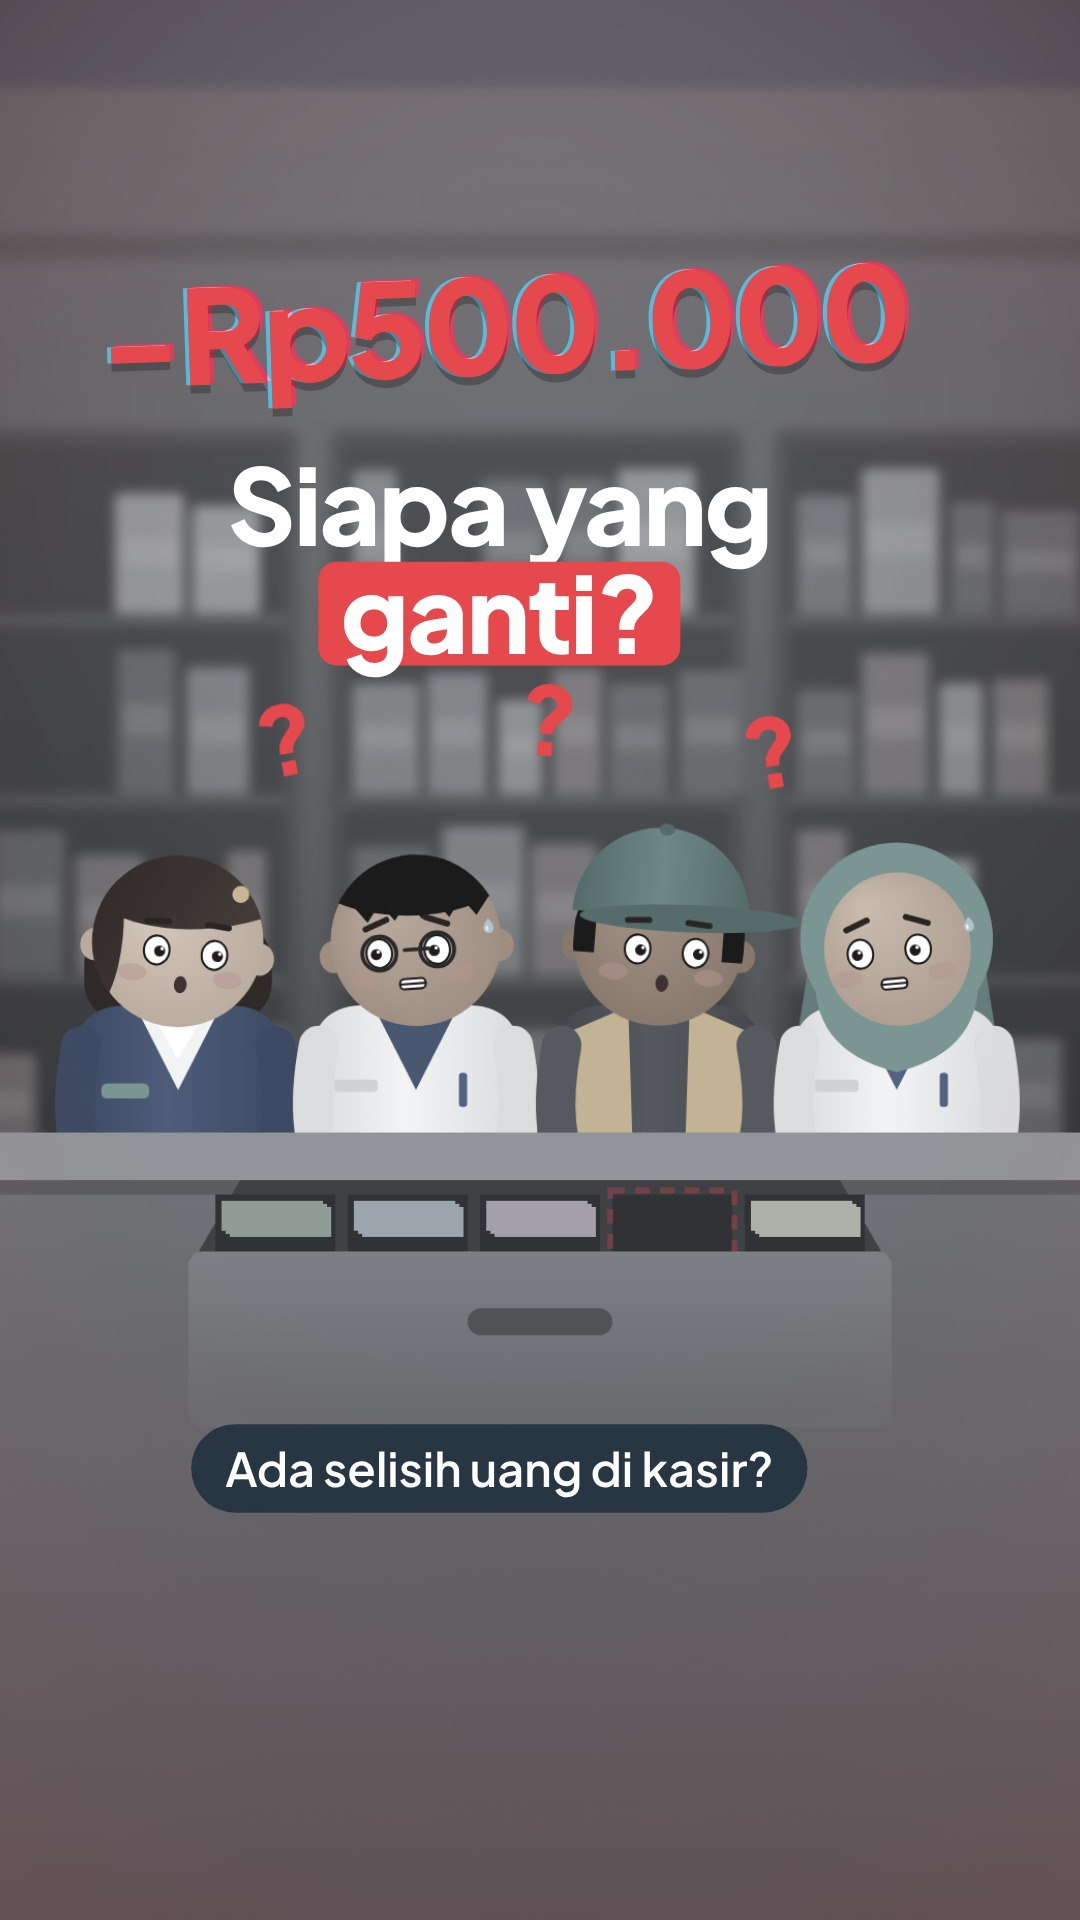
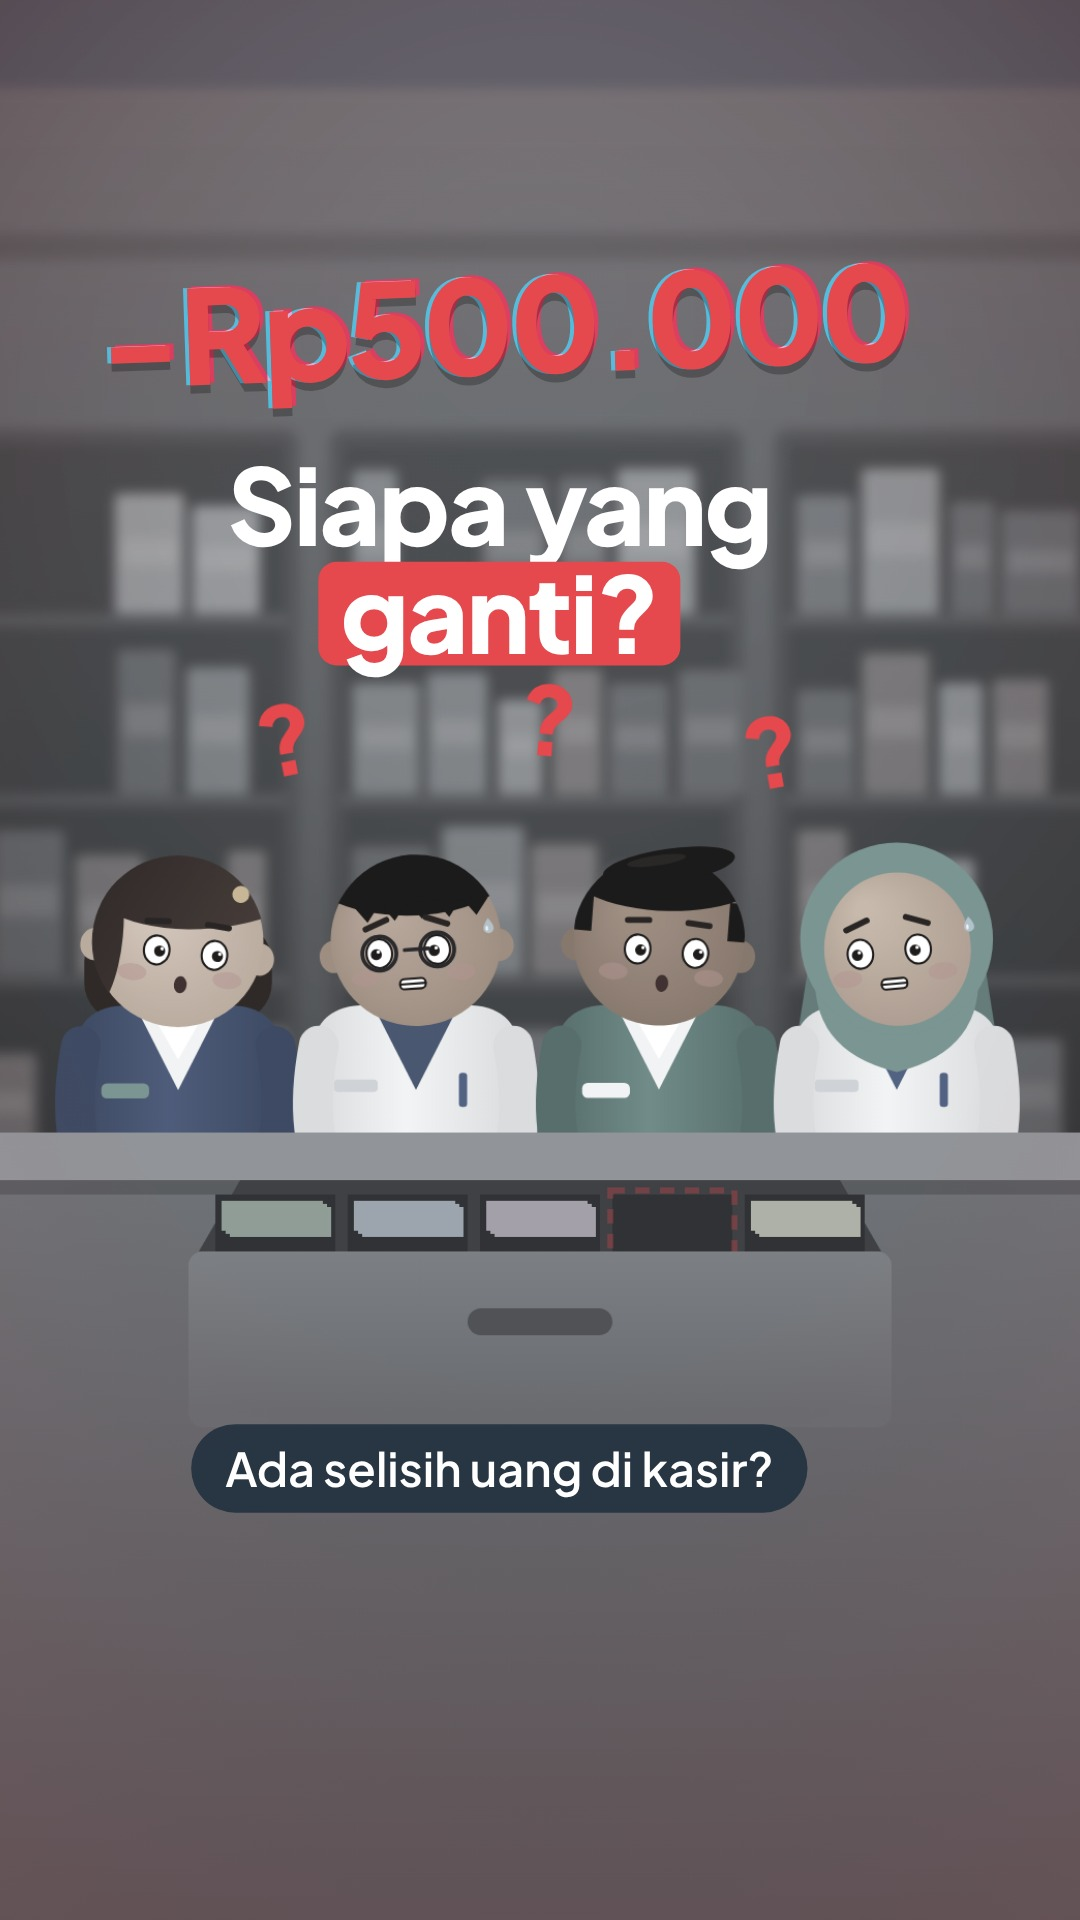
Budi jadi petugas apotek (seragam teal, tanpa topi)
Claude-Session: https://claude.ai/code/session_01LjuAxD6bRwHt1wg8UtLXQz

Changed region(s): [[0.5194, 0.4062, 0.7333, 0.5938]]

diff --git a/selisih-kasir-500rb/index.html b/selisih-kasir-500rb/index.html
@@ -86,7 +86,7 @@ html,body{margin:0;height:100%;background:#000;overflow:hidden}
     <div class="sheet">Karakter<small>dipakai di semua adegan</small></div>
     <div class="lb" style="left:90px;top:1010px">Sari<small>Kasir · Apotek A</small></div>
     <div class="lb" style="left:390px;top:1010px">Dimas<small>Apoteker · Apotek A</small></div>
-    <div class="lb" style="left:690px;top:1010px">Budi<small>Gudang · Apotek A</small></div>
+    <div class="lb" style="left:690px;top:1010px">Budi<small>Petugas · Apotek A</small></div>
     <div class="lb" style="left:240px;top:1700px">Rina<small>Kasir · Apotek B</small></div>
     <div class="lb" style="left:540px;top:1700px">Pak Hendra<small>Owner · Apotek B</small></div>
   </div>
@@ -204,7 +204,7 @@ function gradV(y0, y1, a, b) { const g = c.createLinearGradient(0, y0, 0, y1); g
 const ORANG = {
   sari:  {kulit:'#EDC29C', kulit2:'#D9A57E', rambut:'#3A2722', rambut2:'#5A3A30', jenis:'bob',   baju:'#2F5FC4', baju2:'#244C9E', dalam:'#F1F3F6', aks:'#E8B54A', tag:'#4BA299'},
   dimas: {kulit:'#D9A27A', kulit2:'#C08660', rambut:'#1F1A1A', rambut2:'#3A3030', jenis:'cepak', baju:'#F2F4F7', baju2:'#D6DCE4', dalam:'#2C59AE', kacamata:1},
-  budi:  {kulit:'#C08A62', kulit2:'#A57250', rambut:'#1F1A1A', rambut2:'#2E2626', jenis:'topi',  baju:'#4E5B6E', baju2:'#3E495A', rompi:'#E3B04B', topi:'#3F9590', topi2:'#2F7772'},
+  budi:  {kulit:'#C08A62', kulit2:'#A57250', rambut:'#1F1A1A', rambut2:'#2E2626', jenis:'jambul', baju:'#3F9A90', baju2:'#2F7A72', dalam:'#F1F3F6', tag:'#F1F3F6'},
   rina:  {kulit:'#E6B48C', kulit2:'#CC9670', jenis:'hijab', hijab:'#4BA299', hijab2:'#3B8880', baju:'#F2F4F7', baju2:'#D6DCE4', dalam:'#3064D1'},
   hendra:{kulit:'#CF9A72', kulit2:'#B57F58', rambut:'#2B2523', rambut2:'#6B625E', jenis:'rapi', baju:'#2C59AE', baju2:'#22478C', dalam:'#F1F3F6', kumis:1},
 };
@@ -289,7 +289,7 @@ function orang(o) {
   c.fillStyle = g; c.beginPath(); c.moveTo(-1.1 * bw, 380 * s); c.lineTo(-1.02 * bw, 70 * s); c.quadraticCurveTo(-bw, 0, -.55 * bw, -4 * s); c.lineTo(.55 * bw, -4 * s); c.quadraticCurveTo(bw, 0, 1.02 * bw, 70 * s); c.lineTo(1.1 * bw, 380 * s); c.closePath(); c.fill();
   // detail baju
   if (C.dalam) { c.fillStyle = C.dalam; c.beginPath(); c.moveTo(-.42 * bw, -4 * s); c.lineTo(0, 120 * s); c.lineTo(.42 * bw, -4 * s); c.fill(); }
-  if (C.jenis === 'bob' || C.jenis === 'rapi') { c.fillStyle = C.dalam === '#F1F3F6' ? '#fff' : C.dalam; c.beginPath(); c.moveTo(-.3 * bw, -4 * s); c.lineTo(0, 75 * s); c.lineTo(.3 * bw, -4 * s); c.fill(); }
+  if (C.jenis === 'bob' || C.jenis === 'rapi' || C.jenis === 'jambul') { c.fillStyle = C.dalam === '#F1F3F6' ? '#fff' : C.dalam; c.beginPath(); c.moveTo(-.3 * bw, -4 * s); c.lineTo(0, 75 * s); c.lineTo(.3 * bw, -4 * s); c.fill(); }
   if (C.tag) { c.fillStyle = C.tag; rr(-.75 * bw, 110 * s, 70 * s, 22 * s, 8 * s); c.fill(); }
   if (C.jenis === 'cepak' || C.jenis === 'hijab') { c.fillStyle = '#3064D1'; rr(.42 * bw, 95 * s, 12 * s, 50 * s, 5 * s); c.fill(); c.fillStyle = '#C9D3E0'; rr(-.8 * bw, 105 * s, 64 * s, 18 * s, 6 * s); c.fill(); }
   if (C.rompi) { c.fillStyle = C.rompi; [-1, 1].forEach(sg => { c.beginPath(); c.moveTo(sg * .3 * bw, -2 * s); c.lineTo(sg * .95 * bw, 40 * s); c.lineTo(sg * 1.08 * bw, 380 * s); c.lineTo(sg * .22 * bw, 380 * s); c.closePath(); c.fill(); });
@@ -317,7 +317,9 @@ function orang(o) {
     if (C.jenis === 'rapi') { c.fillStyle = C.rambut2; c.beginPath(); c.ellipse(-.9 * R, -.25 * R, .18 * R, .35 * R, 0, 0, 7); c.ellipse(.9 * R, -.25 * R, .18 * R, .35 * R, 0, 0, 7); c.fill(); }
     else { c.beginPath(); for (let i = 0; i < 5; i++) { c.moveTo(-.7 * R + i * .32 * R, -.45 * R); c.lineTo(-.55 * R + i * .32 * R, -.25 * R); c.lineTo(-.4 * R + i * .32 * R, -.45 * R); } c.fill(); } }
   if (C.jenis === 'topi') { c.fillStyle = C.rambut; c.fillRect(-R, -.3 * R, .25 * R, .5 * R); c.fillRect(.75 * R, -.3 * R, .25 * R, .5 * R); }
+  if (C.jenis === 'jambul') { c.fillStyle = C.rambut; c.beginPath(); c.ellipse(.05 * R, -.95 * R, 1.3 * R, .6 * R, -.06, 0, 7); c.fill(); c.fillRect(-R, -.5 * R, .2 * R, .45 * R); c.fillRect(.8 * R, -.5 * R, .2 * R, .45 * R); }
   c.restore();
+  if (C.jenis === 'jambul') { c.fillStyle = C.rambut; c.beginPath(); c.ellipse(.05 * R, -.88 * R, .78 * R, .2 * R, -.22, 0, 7); c.fill(); c.fillStyle = C.rambut2; c.beginPath(); c.ellipse(-.1 * R, -.93 * R, .35 * R, .06 * R, -.22, 0, 7); c.fill(); }
   if (C.jenis === 'topi') { const tg = c.createLinearGradient(-R, 0, R, 0); tg.addColorStop(0, C.topi2); tg.addColorStop(.5, C.topi); tg.addColorStop(1, C.topi2);
     c.fillStyle = tg; c.beginPath(); c.arc(0, -.28 * R, 1.04 * R, Math.PI, 2 * Math.PI); c.fill();
     c.fillStyle = C.topi2; c.beginPath(); c.ellipse(.35 * R, -.28 * R, 1.3 * R, .16 * R, -.04, 0, 7); c.fill(); ell(0, -1.3 * R, .09 * R, .07 * R, C.topi2); }

diff --git a/selisih-kasir-500rb/scene.html b/selisih-kasir-500rb/scene.html
@@ -63,7 +63,7 @@
     <div class="sheet">Karakter<small>dipakai di semua adegan</small></div>
     <div class="lb" style="left:90px;top:1010px">Sari<small>Kasir · Apotek A</small></div>
     <div class="lb" style="left:390px;top:1010px">Dimas<small>Apoteker · Apotek A</small></div>
-    <div class="lb" style="left:690px;top:1010px">Budi<small>Gudang · Apotek A</small></div>
+    <div class="lb" style="left:690px;top:1010px">Budi<small>Petugas · Apotek A</small></div>
     <div class="lb" style="left:240px;top:1700px">Rina<small>Kasir · Apotek B</small></div>
     <div class="lb" style="left:540px;top:1700px">Pak Hendra<small>Owner · Apotek B</small></div>
   </div>
@@ -87,7 +87,7 @@ function gradV(y0, y1, a, b) { const g = c.createLinearGradient(0, y0, 0, y1); g
 const ORANG = {
   sari:  {kulit:'#EDC29C', kulit2:'#D9A57E', rambut:'#3A2722', rambut2:'#5A3A30', jenis:'bob',   baju:'#2F5FC4', baju2:'#244C9E', dalam:'#F1F3F6', aks:'#E8B54A', tag:'#4BA299'},
   dimas: {kulit:'#D9A27A', kulit2:'#C08660', rambut:'#1F1A1A', rambut2:'#3A3030', jenis:'cepak', baju:'#F2F4F7', baju2:'#D6DCE4', dalam:'#2C59AE', kacamata:1},
-  budi:  {kulit:'#C08A62', kulit2:'#A57250', rambut:'#1F1A1A', rambut2:'#2E2626', jenis:'topi',  baju:'#4E5B6E', baju2:'#3E495A', rompi:'#E3B04B', topi:'#3F9590', topi2:'#2F7772'},
+  budi:  {kulit:'#C08A62', kulit2:'#A57250', rambut:'#1F1A1A', rambut2:'#2E2626', jenis:'jambul', baju:'#3F9A90', baju2:'#2F7A72', dalam:'#F1F3F6', tag:'#F1F3F6'},
   rina:  {kulit:'#E6B48C', kulit2:'#CC9670', jenis:'hijab', hijab:'#4BA299', hijab2:'#3B8880', baju:'#F2F4F7', baju2:'#D6DCE4', dalam:'#3064D1'},
   hendra:{kulit:'#CF9A72', kulit2:'#B57F58', rambut:'#2B2523', rambut2:'#6B625E', jenis:'rapi', baju:'#2C59AE', baju2:'#22478C', dalam:'#F1F3F6', kumis:1},
 };
@@ -172,7 +172,7 @@ function orang(o) {
   c.fillStyle = g; c.beginPath(); c.moveTo(-1.1 * bw, 380 * s); c.lineTo(-1.02 * bw, 70 * s); c.quadraticCurveTo(-bw, 0, -.55 * bw, -4 * s); c.lineTo(.55 * bw, -4 * s); c.quadraticCurveTo(bw, 0, 1.02 * bw, 70 * s); c.lineTo(1.1 * bw, 380 * s); c.closePath(); c.fill();
   // detail baju
   if (C.dalam) { c.fillStyle = C.dalam; c.beginPath(); c.moveTo(-.42 * bw, -4 * s); c.lineTo(0, 120 * s); c.lineTo(.42 * bw, -4 * s); c.fill(); }
-  if (C.jenis === 'bob' || C.jenis === 'rapi') { c.fillStyle = C.dalam === '#F1F3F6' ? '#fff' : C.dalam; c.beginPath(); c.moveTo(-.3 * bw, -4 * s); c.lineTo(0, 75 * s); c.lineTo(.3 * bw, -4 * s); c.fill(); }
+  if (C.jenis === 'bob' || C.jenis === 'rapi' || C.jenis === 'jambul') { c.fillStyle = C.dalam === '#F1F3F6' ? '#fff' : C.dalam; c.beginPath(); c.moveTo(-.3 * bw, -4 * s); c.lineTo(0, 75 * s); c.lineTo(.3 * bw, -4 * s); c.fill(); }
   if (C.tag) { c.fillStyle = C.tag; rr(-.75 * bw, 110 * s, 70 * s, 22 * s, 8 * s); c.fill(); }
   if (C.jenis === 'cepak' || C.jenis === 'hijab') { c.fillStyle = '#3064D1'; rr(.42 * bw, 95 * s, 12 * s, 50 * s, 5 * s); c.fill(); c.fillStyle = '#C9D3E0'; rr(-.8 * bw, 105 * s, 64 * s, 18 * s, 6 * s); c.fill(); }
   if (C.rompi) { c.fillStyle = C.rompi; [-1, 1].forEach(sg => { c.beginPath(); c.moveTo(sg * .3 * bw, -2 * s); c.lineTo(sg * .95 * bw, 40 * s); c.lineTo(sg * 1.08 * bw, 380 * s); c.lineTo(sg * .22 * bw, 380 * s); c.closePath(); c.fill(); });
@@ -200,7 +200,9 @@ function orang(o) {
     if (C.jenis === 'rapi') { c.fillStyle = C.rambut2; c.beginPath(); c.ellipse(-.9 * R, -.25 * R, .18 * R, .35 * R, 0, 0, 7); c.ellipse(.9 * R, -.25 * R, .18 * R, .35 * R, 0, 0, 7); c.fill(); }
     else { c.beginPath(); for (let i = 0; i < 5; i++) { c.moveTo(-.7 * R + i * .32 * R, -.45 * R); c.lineTo(-.55 * R + i * .32 * R, -.25 * R); c.lineTo(-.4 * R + i * .32 * R, -.45 * R); } c.fill(); } }
   if (C.jenis === 'topi') { c.fillStyle = C.rambut; c.fillRect(-R, -.3 * R, .25 * R, .5 * R); c.fillRect(.75 * R, -.3 * R, .25 * R, .5 * R); }
+  if (C.jenis === 'jambul') { c.fillStyle = C.rambut; c.beginPath(); c.ellipse(.05 * R, -.95 * R, 1.3 * R, .6 * R, -.06, 0, 7); c.fill(); c.fillRect(-R, -.5 * R, .2 * R, .45 * R); c.fillRect(.8 * R, -.5 * R, .2 * R, .45 * R); }
   c.restore();
+  if (C.jenis === 'jambul') { c.fillStyle = C.rambut; c.beginPath(); c.ellipse(.05 * R, -.88 * R, .78 * R, .2 * R, -.22, 0, 7); c.fill(); c.fillStyle = C.rambut2; c.beginPath(); c.ellipse(-.1 * R, -.93 * R, .35 * R, .06 * R, -.22, 0, 7); c.fill(); }
   if (C.jenis === 'topi') { const tg = c.createLinearGradient(-R, 0, R, 0); tg.addColorStop(0, C.topi2); tg.addColorStop(.5, C.topi); tg.addColorStop(1, C.topi2);
     c.fillStyle = tg; c.beginPath(); c.arc(0, -.28 * R, 1.04 * R, Math.PI, 2 * Math.PI); c.fill();
     c.fillStyle = C.topi2; c.beginPath(); c.ellipse(.35 * R, -.28 * R, 1.3 * R, .16 * R, -.04, 0, 7); c.fill(); ell(0, -1.3 * R, .09 * R, .07 * R, C.topi2); }

diff --git a/selisih-kasir-500rb/gaya.md b/selisih-kasir-500rb/gaya.md
@@ -1,5 +1,5 @@
 # Gaya: Flat Apotek (seri Tunda Faktur → Selisih Kasir)
-- Karakter: kepala bulat besar, mata titik + kilau, pipi merona, tanpa garis tepi, gradien halus (sama dgn video Tunda Faktur). 5 tokoh: Sari, Dimas, Budi (Apotek A) · Rina, Pak Hendra (Apotek B). 12 ekspresi.
+- Karakter: kepala bulat besar, mata titik + kilau, pipi merona, tanpa garis tepi, gradien halus (sama dgn video Tunda Faktur). 5 tokoh: Sari, Dimas, Budi (petugas apotek, tanpa topi; Apotek A) · Rina, Pak Hendra (Apotek B). 12 ekspresi.
 - Palet: navy #1B2B3B · biru #3064D1 · biru tua #2C59AE · teal #4BA299 · hijau #5BAC72. Apotek A: abu #5C6773/#8A97A6 + merah #E5484D, desaturasi + blur rak (DOF). Tanpa oranye.
 - Font: Plus Jakarta Sans 800 headline (100–140 px), 600 caption 46 px di pil navy.
 - Kamera: tiap adegan bergerak (punch-in hook, push-in pelan, whip-pan di adegan 7); teks layer terpisah, paralaks 50%.
